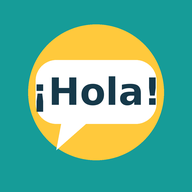
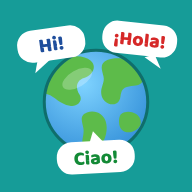
Nouvelle icône Petit Polyglotte : globe et bulles Hi! ¡Hola! Ciao! (1/3 de la version 30)
Claude-Session: https://claude.ai/code/session_01NAjdbEzTh1br2FqkwaqXne

diff --git a/CLAUDE.md b/CLAUDE.md
@@ -76,7 +76,10 @@ Formule gratuite Netlify : 300 crédits/mois, **chaque mise en ligne sur `main` 
 - Un commit sur `main` qui ne touche pas l'appli (documentation) porte `[skip ci]` dans son message pour ne pas déclencher de mise en ligne.
 - Une seule version (`APP_VERSION`, cache `hola-lola-vN`) par mise en ligne, avec un texte `NEW_IN` qui résume les 3 demandes.
 
-**Demandes en attente sur `prochaine-version` : 0 / 3** (la version 29 est en ligne depuis le 12 novembre 2026 : récitations traduites, même fonctionnement et mêmes leçons dans les 3 langues (Famille et anciennes leçons du code bêta en anglais/italien), offre gratuite réduite aux Niveaux 1 et 2, premier écran dans la langue du téléphone)
+**Demandes en attente sur `prochaine-version` : 1 / 3** (version 30 en préparation ; la 29 est en ligne depuis le 12 novembre 2026)
+1. Nouvelle icône Petit Polyglotte (modèle A choisi le 12 novembre 2026 : globe bleu et vert, bulles « Hi! », « ¡Hola! », « Ciao! » sur fond turquoise, police Baloo 2) : `icon-192.png`, `icon-512.png`, `icon-maskable-512.png` (version réduite pour la découpe ronde d'Android) ; sources `tools/icon.svg` et `tools/icon-maskable.svg`.
+
+**Attention crédits Netlify (12 novembre 2026)** : l'utilisateur pense ne plus avoir de crédits ; avant toute mise en ligne, lui demander son solde. Envisagé : changer d'hébergement (GitHub Pages ou Cloudflare Pages) **avant** le lancement des bêta-tests, en gérant le transfert de progression (code de sauvegarde), car la progression est liée à l'adresse du site.
 
 **À FAIRE (demandé le 8 novembre 2026, reporté par l'utilisateur à « la semaine prochaine » faute de crédits)** : **10 Niveaux avancés = 50 leçons** (Niveaux 12 à 21), thèmes déjà vus mais plus difficiles, **nouveau vocabulaire**, phrases (format `FAM_UNITS` : `conv`+`phr`, 10 éléments, dialogue de 5 répliques, 3 phrases à trou, traductions `TRX` anglais/italien, images `fx`, une récitation par niveau dans `SONGS`). Accès : **offre Famille** (ils prolongent `FAM_UNITS` : 5 leçons par mois après le Niveau 4) **et Ultimate** (tout ouvert). À prévoir : l'ordre et la numérotation des niveaux Famille et des anciennes leçons (`EXTRA_UNITS`, Niveaux 5 à 11 en Ultimate).
 
